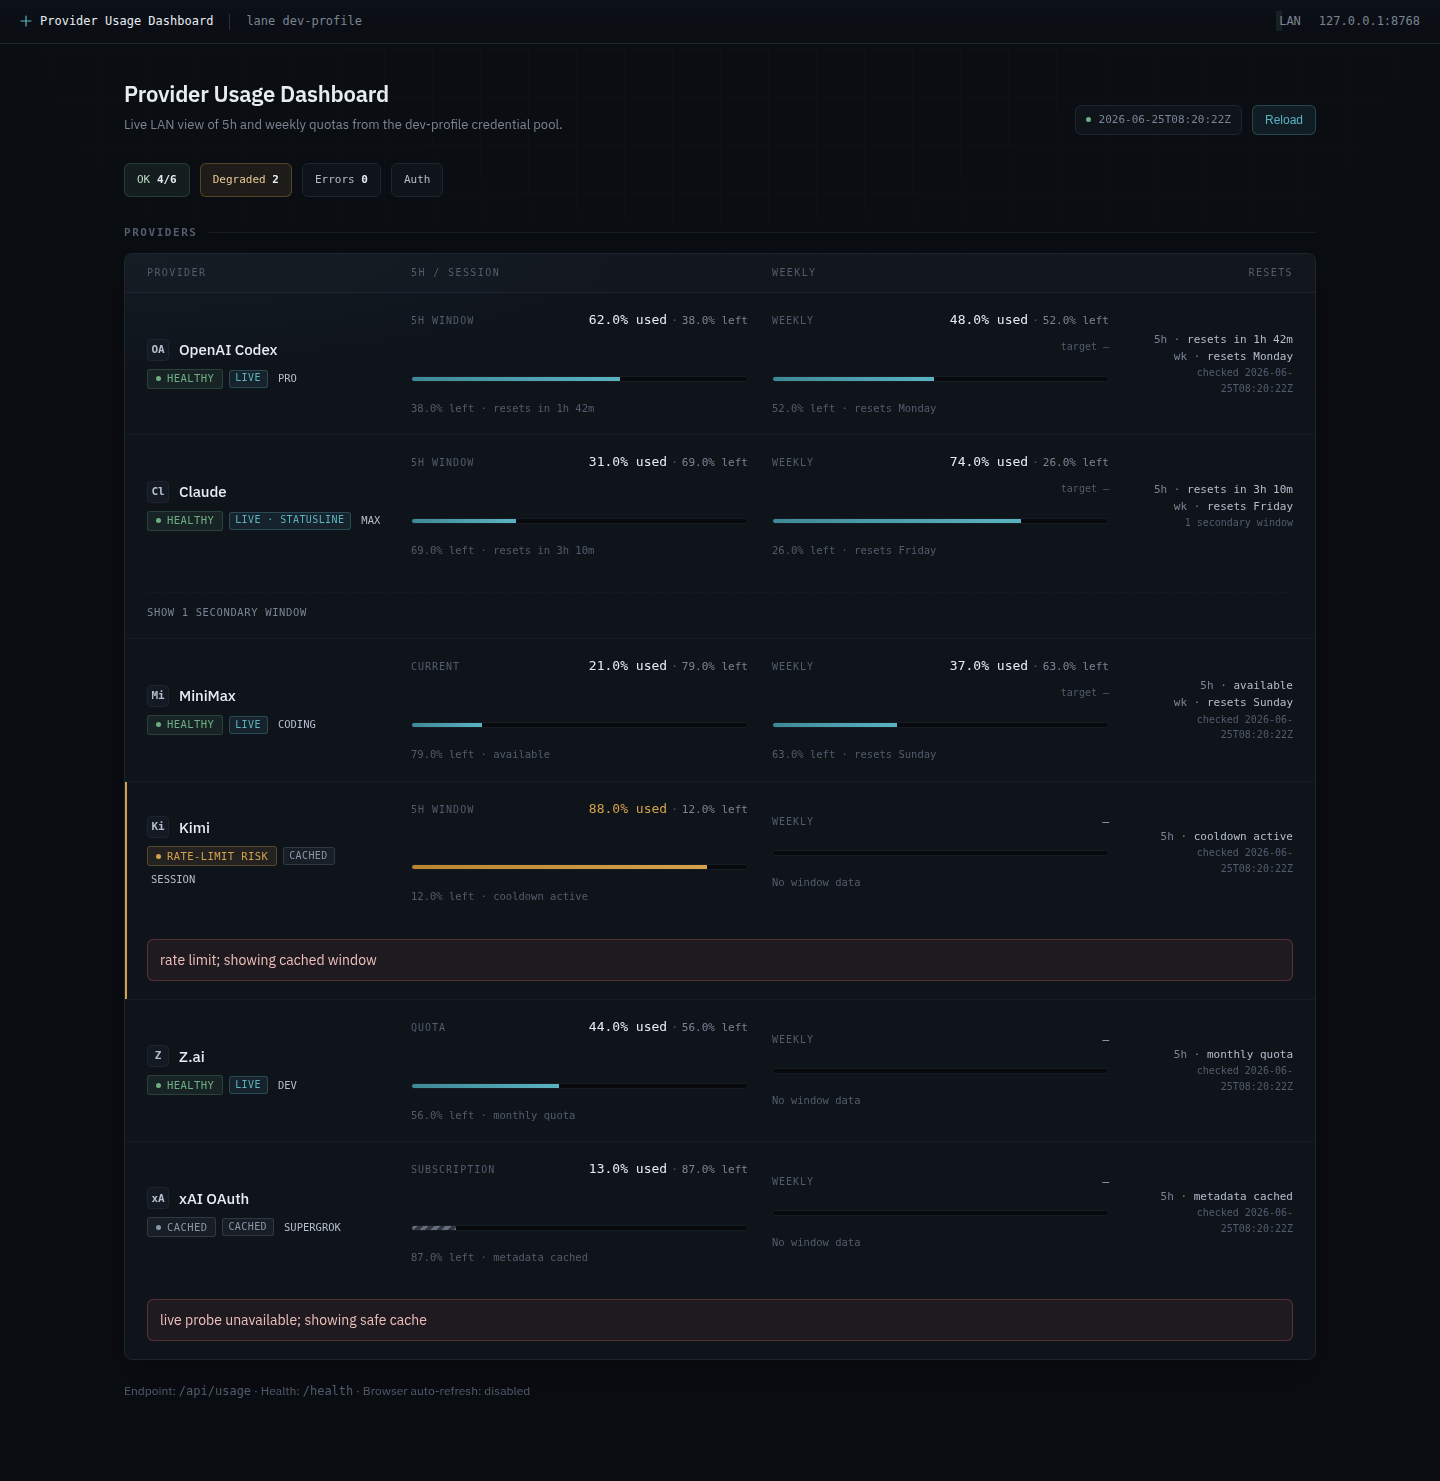
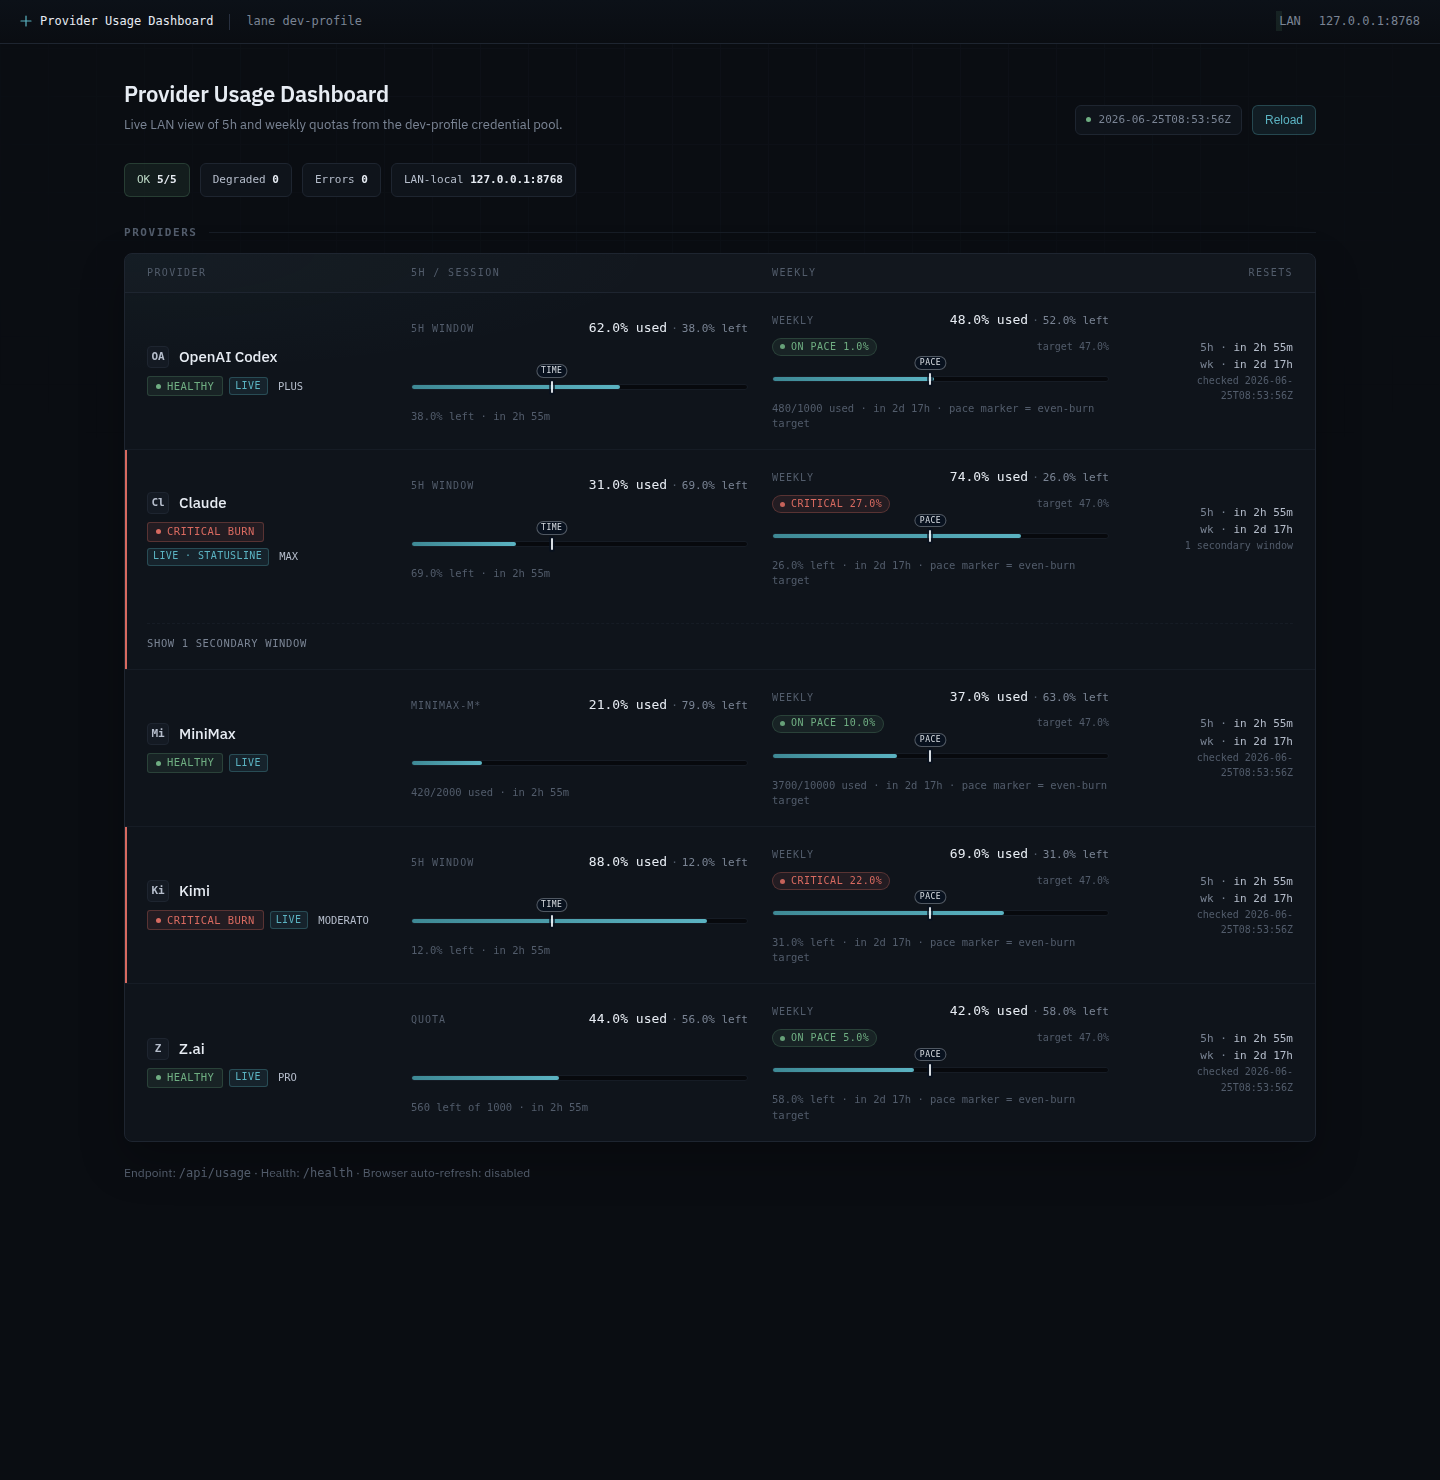
Show pace markers in README screenshot
Make the pace/time markers explicit in the UI and refresh the README screenshot without xAI.

diff --git a/app.py b/app.py
@@ -1365,18 +1365,25 @@ HTML = """<!doctype html>
     .pace-chip--crit { color: var(--crit); border-color: var(--crit-line); background: var(--crit-bg); }
     .pace-chip--stale { color: var(--stale); border-color: var(--stale-line); background: var(--stale-bg); }
     .pacebar {
-      position:relative; height:6px; background: var(--bg-inset); border-radius:999px; overflow:hidden;
+      position:relative; height:6px; background: var(--bg-inset); border-radius:999px; overflow:visible;
       border:1px solid var(--line-soft);
     }
     .pacebar__fill {
       position:absolute; left:0; top:0; bottom:0; background: linear-gradient(90deg, var(--accent-dim), var(--accent));
+      border-radius:999px;
     }
     .pacebar--warn .pacebar__fill { background: linear-gradient(90deg, #B8862F, var(--warn)); }
     .pacebar--crit .pacebar__fill { background: linear-gradient(90deg, #B0524A, var(--crit)); }
     .pacebar--stale .pacebar__fill { background: repeating-linear-gradient(135deg, var(--stale) 0 4px, rgba(139,149,168,0.45) 4px 8px); opacity:0.72; }
     .pacebar__marker {
       position:absolute; top:-4px; bottom:-4px; width:2px; background:#EEF3F8; border-radius:999px;
-      box-shadow: 0 0 0 2px rgba(8,17,31,0.78); opacity:0.8;
+      box-shadow: 0 0 0 2px rgba(8,17,31,0.78); opacity:0.9; overflow:visible;
+    }
+    .pacebar__marker span {
+      position:absolute; left:50%; bottom:100%; transform:translate(-50%, -3px);
+      padding:1px 4px; border-radius:999px; border:1px solid rgba(238,243,248,0.35);
+      background:rgba(8,17,31,0.92); color:#EEF3F8; font-family:var(--mono); font-size:8px;
+      line-height:1.2; text-transform:uppercase; letter-spacing:0.06em; white-space:nowrap;
     }
     .pcell__resets { font-family: var(--mono); font-size:10.5px; color: var(--fg-3); margin-top:1px; }
     .prow__reset {
@@ -1561,7 +1568,7 @@ function renderSummary(data) {
     `<div class=\"pill pill--ok\">OK <b>${esc(data.summary.ok)}/${esc(data.summary.total)}</b></div>`,
     `<div class=\"pill ${data.summary.degraded ? 'pill--warn' : ''}\">Degraded <b>${esc(data.summary.degraded)}</b></div>`,
     `<div class=\"pill ${data.summary.errors ? 'pill--crit' : ''}\">Errors <b>${esc(data.summary.errors)}</b></div>`,
-    `<div class=\"pill\">Auth <b>${esc(data.auth_path)}</b></div>`
+    `<div class=\"pill\">LAN-local <b>${esc(data.host)}:${esc(data.port)}</b></div>`
   ].join('');
 }
 function windowExpectedUsed(window) {
@@ -1637,7 +1644,7 @@ function renderPrimaryCell(provider, window, fallbackLabel, summary) {
       <div class=\"pcell__subrow\">${weekly ? `${pace ? `<span class=\"pace-chip pace-chip--${esc(pace.cls)}\">${esc(pace.label)}</span>` : '<span></span>'}<span class=\"pcell__target\">target ${esc(pct(summary?.expectedUsed))}</span>` : '<span></span>'}</div>
       <div class=\"pacebar ${cls.bar}\">
         <div class=\"pacebar__fill\" style=\"width:${used.toFixed(1)}%\"></div>
-        ${marker !== null ? `<div class=\"pacebar__marker\" style=\"left:calc(${Math.max(0, Math.min(100, marker)).toFixed(1)}% - 1px)\"></div>` : ''}
+        ${marker !== null ? `<div class=\"pacebar__marker\" style=\"left:calc(${Math.max(0, Math.min(100, marker)).toFixed(1)}% - 1px)\"><span>${weekly ? 'pace' : 'time'}</span></div>` : ''}
       </div>
       <div class=\"pcell__resets\">${esc(counts || window.remaining_text || '')}${window.reset_text ? ` · ${esc(window.reset_text)}` : ''}${weekly && summary ? ` · pace marker = even-burn target` : ''}</div>
     </div>`;
